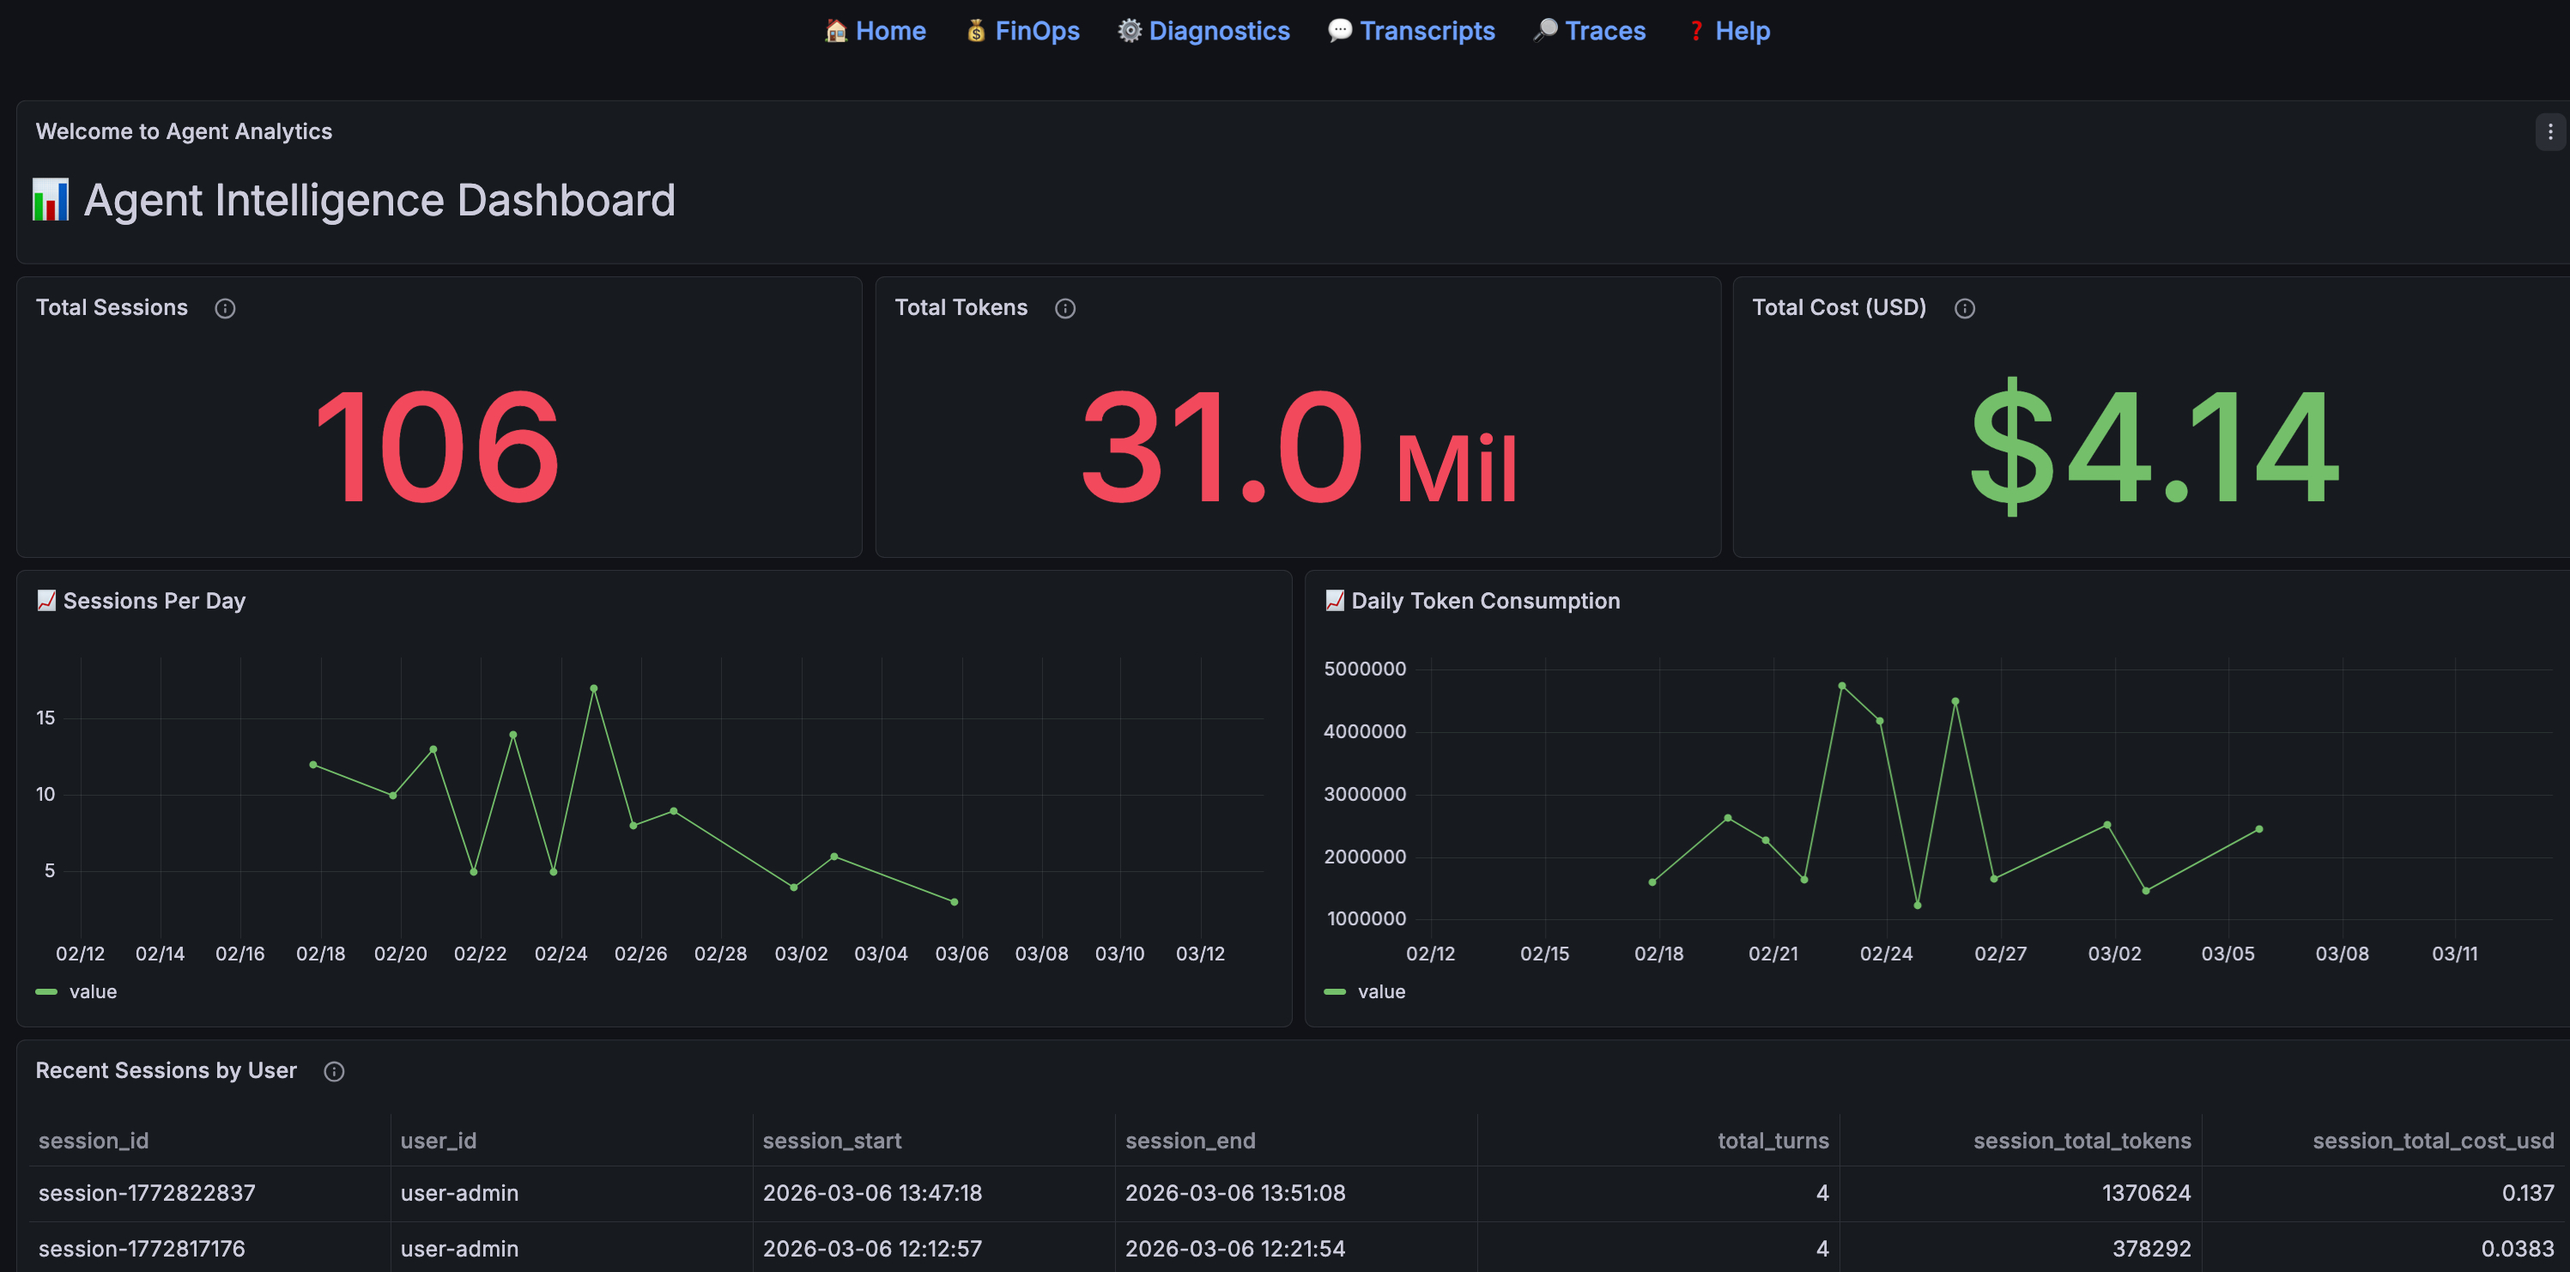
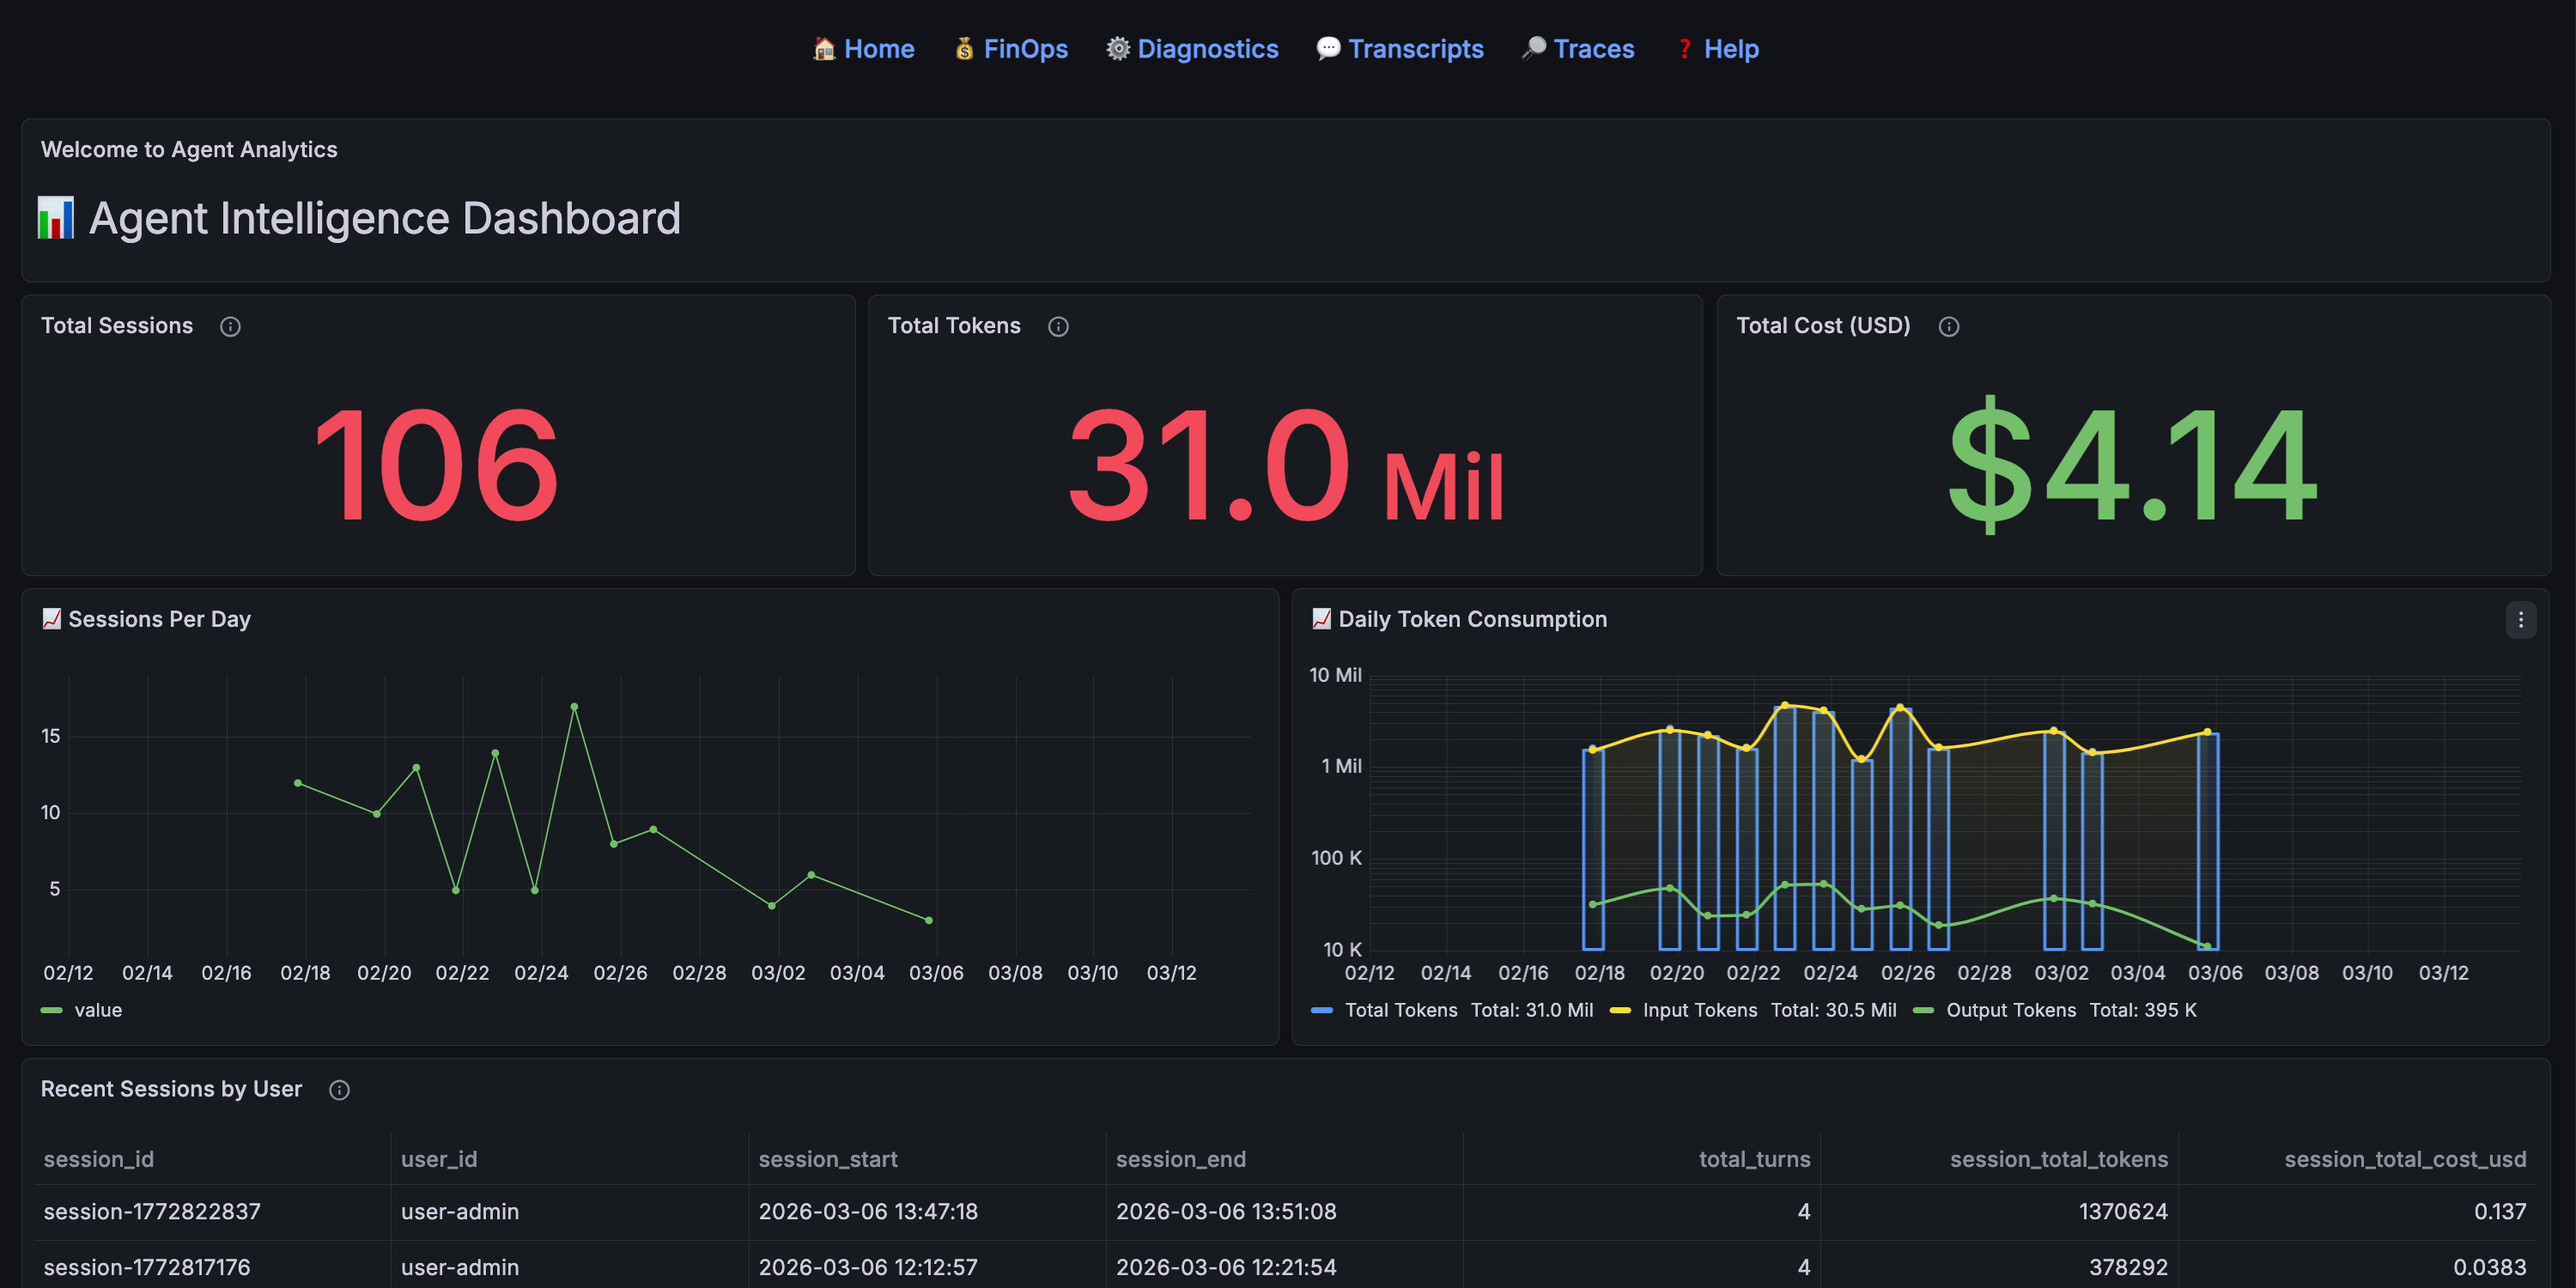
docs: improve token observability documentation and visualization
- Update Daily Token Consumption chart to logarithmic scale with mixed chart types (Bars for Total, Lines for Input/Output)
- Fix placeholder bug in BQ Dataset variable across Diagnostics, FinOps, Traces, and Chat dashboards
- Add dynamic template variables to Guide dashboard documentation
- Extend BigQuery views (v_session_summary) with prompt and completion token breakdowns
- Update dashboard_spec.md and bq_dashboard_views.md to reflect new metrics and visualization strategy

diff --git a/setup_bq_views.py b/setup_bq_views.py
@@ -26,6 +26,8 @@ def create_views(project_id, dataset_id, table_name):
       SELECT 
         session_id,
         SUM(CAST(JSON_VALUE(attributes, '$.usage_metadata.total_token_count') AS INT64)) as total_tokens,
+        SUM(CAST(JSON_VALUE(attributes, '$.usage_metadata.prompt_token_count') AS INT64)) as prompt_tokens,
+        SUM(CAST(JSON_VALUE(attributes, '$.usage_metadata.candidates_token_count') AS INT64)) as output_tokens,
         SUM(
           (CAST(JSON_VALUE(attributes, '$.usage_metadata.prompt_token_count') AS INT64) * p.input_cost_per_token) + 
           (CAST(JSON_VALUE(attributes, '$.usage_metadata.candidates_token_count') AS INT64) * p.output_cost_per_token)
@@ -48,6 +50,8 @@ def create_views(project_id, dataset_id, table_name):
       COUNTIF(e.event_type = 'TOOL_COMPLETED') AS total_tools_executed,
       COUNTIF(e.status = 'ERROR') AS total_errors,
       MAX(c.total_tokens) AS session_total_tokens,
+      MAX(c.prompt_tokens) AS session_prompt_tokens,
+      MAX(c.output_tokens) AS session_completion_tokens,
       MAX(c.total_usd_cost) AS session_total_cost_usd,
       MAX(CAST(JSON_VALUE(e.latency_ms, '$.time_to_first_token_ms') AS INT64)) AS max_ttft_ms
     FROM `{dataset_ref}.{table_name}` e

diff --git a/docker/README.md b/docker/README.md
@@ -1,67 +1,73 @@
-# 🐳 Agent Analytics - Docker Distribution
+# 🐳 Agent Analytics - Docker & GKE Distribution
 
-This directory contains the necessary components to run the **Agent Analytics** suite in a zero-config, portable environment using Docker.
+This directory contains the necessary components to run the **Agent Analytics** suite in a zero-config, portable environment using Docker or Kubernetes.
 
-## 🚀 Instant Deployment
+## 🍎 Running on Mac (Docker Desktop)
 
-The Docker setup automatically installs the BigQuery plugin, provisions your datasource, and pre-loads all 5 analytical dashboards.
+The Docker setup allows you to run the entire stack locally with automatic project configuration.
 
 ### 1. Prerequisite: Authenticate Local Machine
-The container is designed to leverage your local **Application Default Credentials (ADC)**. Ensure you are logged in on your host machine:
+The container leverages your local **Application Default Credentials (ADC)**. Ensure you are logged in:
 ```bash
 gcloud auth application-default login
 ```
 
 ### 2. Configure Environment
-Create a `.env` file in this directory or export these variables:
+Export your GCP and BigQuery details in your terminal:
 ```bash
 export GCP_PROJECT="your-project-id"
-export BQ_DATASET="your_dataset"
-export BQ_TABLE="your_base_table"
+export BQ_DATASET="adk_agent_logs"
+export BQ_TABLE="mosa_agent_events_v2"
 ```
 
-### 3. Start the Suite
-From the project root:
+### 3. Launch the Stack
+Run this command from the **root** of the repository:
 ```bash
 docker-compose -f docker/docker-compose.yml up --build
+```
+*Wait for the logs to say "Grafana is now running". You can then access it at [http://localhost:3000](http://localhost:3000).*
+
+---
+
+## ☸ Deploying to GKE
+
+For cloud deployment, we use native GCP Workload Identity for authentication.
+
+### 1. Build and Push Image
+```bash
+# Build the image from root
+docker build -t gcr.io/${GCP_PROJECT}/agent-analytics:latest -f docker/Dockerfile .
+
+# Push to your registry
+docker push gcr.io/${GCP_PROJECT}/agent-analytics:latest
+```
+
+### 2. Configure Workload Identity
+Ensure your GKE ServiceAccount has the `BigQuery Data Viewer` role.
+```bash
+# Example: Link K8s ServiceAccount to GCP ServiceAccount
+gcloud iam service-accounts add-iam-policy-binding GSA_NAME@PROJECT_ID.iam.gserviceaccount.com \
+    --role roles/iam.workloadIdentityUser \
+    --member "serviceAccount:PROJECT_ID.svc.id.goog[NAMESPACE/KSA_NAME]"
+```
+
+### 3. Deploy Manifest
+Apply the provided manifest:
+```bash
+kubectl apply -f docker/k8s-deployment.yaml
 ```
 
 ---
 
 ## 🏗 How it Works
 
-### 1. Authentication Strategy (ADC)
-The `docker-compose.yml` mounts your local `${HOME}/.config/gcloud` directory into the container. This allows the internal Grafana process to "inherit" your existing GCP connectivity without requiring you to manage service account JSON keys manually.
-
-### 2. Automatic Dashboard Provisioning
-On startup, the `entrypoint.sh` script performs a "Search & Replace" on the dashboard template files. It injects your `GCP_PROJECT`, `BQ_DATASET`, and `BQ_TABLE` variables directly into the JSON models.
-
-### 3. Cleanup
-To stop the services:
-```bash
-docker-compose -f docker/docker-compose.yml down
-```
+1.  **Zero-Config Entrypoint**: On startup, `entrypoint.sh` automatically injects your environment variables into the standardized `.template.json` files.
+2.  **ADC Auth**: The `bigquery.yaml` datasource is configured for `gce` mode, which automatically detects credentials on Mac (via mount) and GKE (via Metadata Server).
+3.  **Unified Nav**: Navigation variables are automatically persisted across all 5 dashboards.
 
 ---
 
-## ☁ Cloud Deployment (GKE / Cloud Run)
+### 🛑 Troubleshooting
+- **Permission Denied**: On Mac, ensure Docker has permission to access `${HOME}/.config/gcloud`.
+- **Placeholder Error**: If dashboards show "REPLACE_ME", verify your `GCP_PROJECT` and `BQ_DATASET` environment variables were set before running `docker-compose`.
 
-When deploying to managed Google Cloud environments, you **do not** need to mount local credentials.
-
-### 1. Native Authentication
-GKE and Cloud Run use **Service Account Delegation**. Instead of mounting a `.config/gcloud` folder, you simply assign a Service Account to the pod or service with the following roles:
-- `BigQuery Data Viewer`
-- `BigQuery Job User`
-
-### 2. No Code Changes Needed
-The Google BigQuery plugin for Grafana is "Cloud Aware." If it doesn't find a mounted key, it automatically queries the **GCP Metadata Server** for a token. This means the same Docker image works locally *and* in production without modification.
-
-### 3. Environment Variables
-In your GKE Manifest or Cloud Run configuration, simply provide the standard environment variables:
-- `GCP_PROJECT`
-- `BQ_DATASET`
-- `BQ_TABLE`
-
----
-
-*Note: For manual setup instructions without Docker, refer to the root [README.md](../README.md).*

diff --git a/dashboard_spec.md b/dashboard_spec.md
@@ -33,9 +33,10 @@ To ensure performance and relevance, the suite uses a **cascading hierarchy** fo
 
 ### Key Metrics:
 - **Total Sessions:** Unique count of all user-agent conversations.
-- **Total Tokens:** Aggregated token consumption (Input + Output).
+- **Tokens (Input/Output/Total):** Granular breakdown of consumption (Input + Output).
 - **Total Cost (USD):** Estimated dollar cost based on model pricing.
 - **Usage Trends:** Daily breakdown of sessions and token volume.
+    - **Visualization:** Mixed chart style using base-10 logarithmic scale. **Total Tokens** are shown as subtle background bars, while **Input** and **Output** tokens are plotted as lines for clear comparative profiling.
 
 ---
 

diff --git a/bq_dashboard_views.md b/bq_dashboard_views.md
@@ -20,6 +20,8 @@ Agent Analytics uses a **View-on-Table** pattern. Instead of modifying raw event
 - `session_duration_ms`: Total wall-clock time from the first user message to the final agent response.
 - `total_turns`: Count of individual request/response interactions within the session.
 - `session_total_tokens`: Aggregated token volume across all turns.
+- `session_prompt_tokens`: Cumulative input tokens (Prompts).
+- `session_completion_tokens`: Cumulative output tokens (Candidates).
 - `session_total_cost_usd`: Estimated budget impact based on input/candidate model pricing.
 - `max_ttft_ms`: The single highest "Time to First Token" delay recorded during the session.
 
